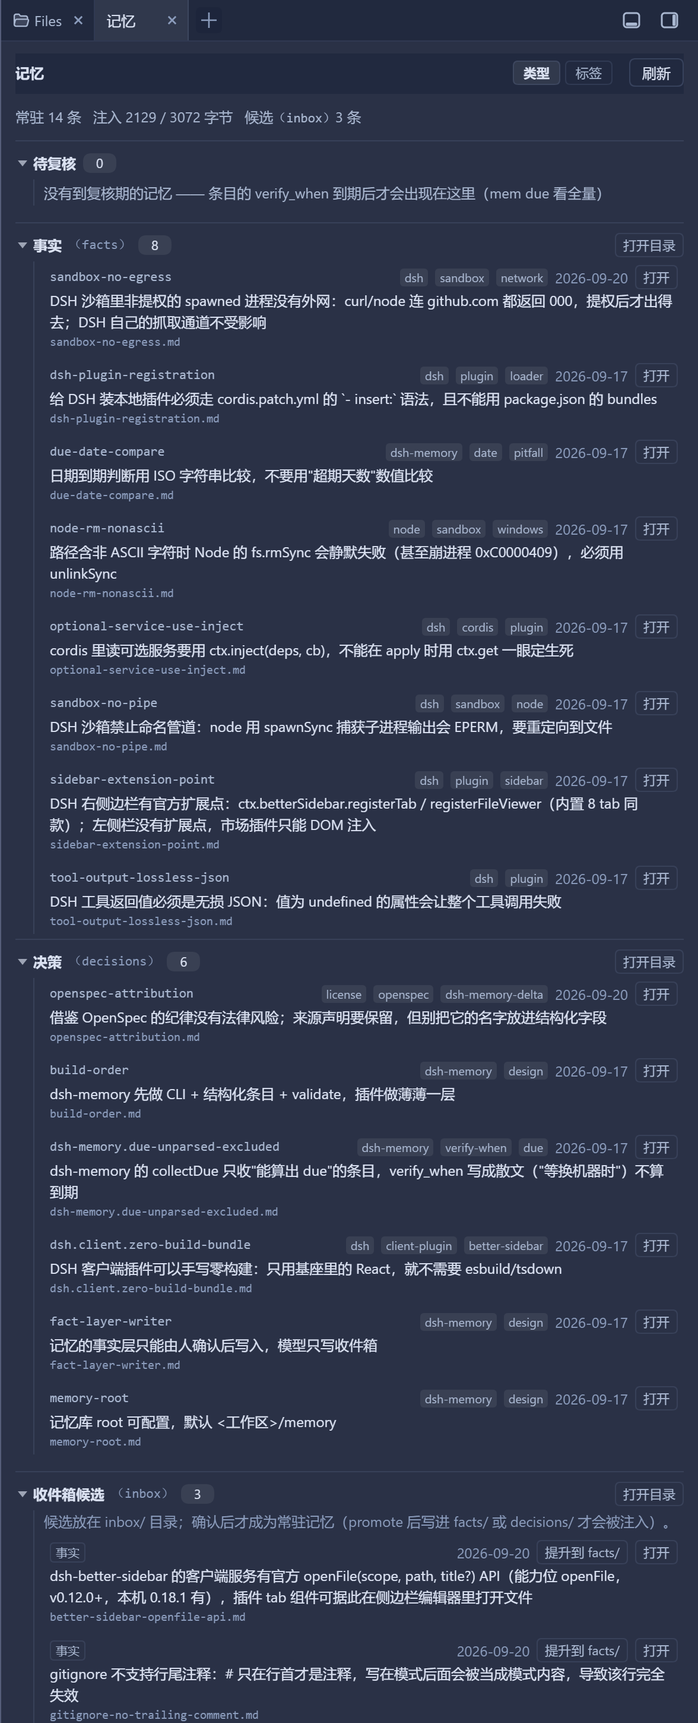
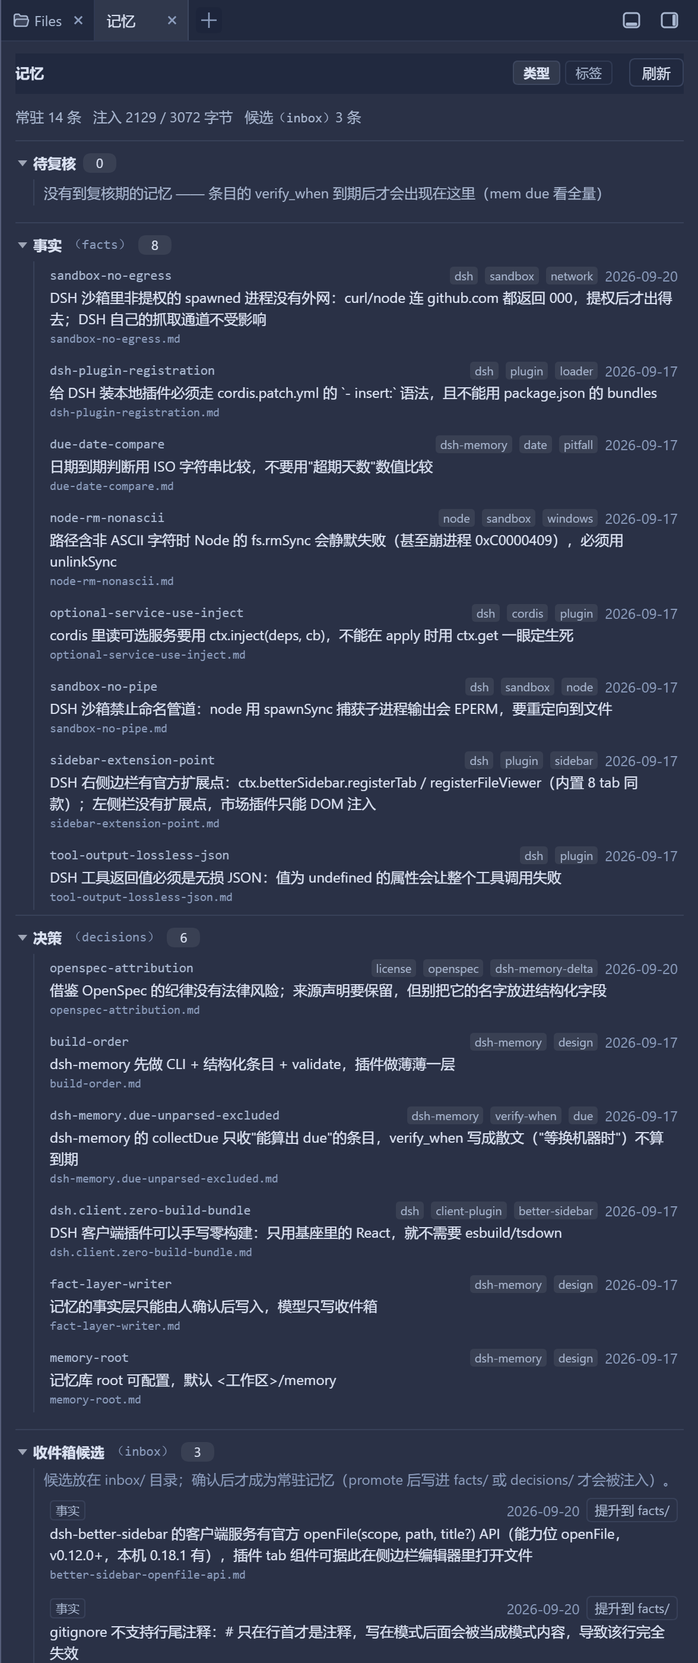
面板精简：删掉「打开目录」按钮与条目行「打开」小标签（连宿主路由一起删）
用户反馈："打开目录和打开标签不要了吧，有三角箭头和点击打开具体详情可以了"。

- client：分组头的「打开目录」按钮、条目行的「打开」小标签都去掉；
  只保留必须写库/必须由人判断的动作（收件箱「提升到 facts/ decisions/」、条目「整理文件名」）
- 宿主：**整条 reveal 路由拆掉**（MEMORY_REVEAL_PATH / REVEAL_WHERE / resolveRevealDir /
  openFolderInOs / createRevealRoute / registerRevealRoute + spawn 导入 + allowOpenFolder 配置）。
  理由：它是唯一会启动外部进程（explorer.exe）的路由，按钮没了就没人调用 ——
  留着"以备将来"等于白留一份安全面
- 测试：plugin 178→160（删掉 reveal 用例，改为断言"没有 reveal 路由"）、client 97→95
  （改为断言"没有打开目录按钮 / 不再请求 /reveal"）；全套 642 断言绿
- 文档：README 中英、design.md 第③节改成"做过又删掉，以及为什么"（少即是多的一次实践）
- 截图重拍（新面板，无多余按钮）

diff --git a/client/client.js b/client/client.js
@@ -36,8 +36,6 @@ window.__ModuleLoader__.load({
     require('react-dom');
 
     const STATE_URL = '/dsh-memory-delta/state';
-    // 动作路由：让宿主用系统文件管理器打开记忆库里的某个目录（白名单 + 回环校验在宿主侧）。
-    const REVEAL_URL = '/dsh-memory-delta/reveal';
     // 写记忆库的动作（收件箱提升 / 安全改名）—— 宿主侧复用 CLI 的 promoteEntry / renameEntry。
     const ACTION_URL = '/dsh-memory-delta/action';
     const PLUGIN_ID = 'dsh-memory-delta';
@@ -163,7 +161,7 @@ window.__ModuleLoader__.load({
   gap: 4px;
 }
 
-/* 小按钮：打开目录 / 打开文件 */
+/* 小按钮：提升 / 整理文件名（只保留"要写库/要判断"的动作，纯跳转类的按钮都去掉了） */
 .dsh-memory-delta-mini {
   flex: none;
   padding: 1px 6px;
@@ -345,31 +343,6 @@ window.__ModuleLoader__.load({
       return '今天到期';
     }
 
-    /**
-     * 让宿主打开一个目录（系统文件管理器）。
-     *
-     * 失败时**把宿主的原因原样抛出来** —— 「点了没反应」是最难查的用户体验，
-     * 面板会把这句话显示在状态行下面。
-     */
-    function requestReveal(where, workspace) {
-      return fetch(REVEAL_URL, {
-        method: 'POST',
-        headers: { 'content-type': 'application/json' },
-        body: JSON.stringify(workspace ? { where, workspace } : { where }),
-      }).then(async (res) => {
-        let data = null;
-        try {
-          data = await res.json();
-        } catch {
-          data = null;
-        }
-        if (!res.ok || !data || data.ok === false) {
-          throw new Error((data && data.error) || `HTTP ${res.status}`);
-        }
-        return data;
-      });
-    }
-
     const row = (key, children) => h('div', { className: 'dsh-memory-delta-row', key }, children);
 
     /** 只取文件名（`D:\...\facts\sandbox-no-egress.md` → `sandbox-no-egress.md`）。 */
@@ -385,12 +358,11 @@ window.__ModuleLoader__.load({
      * 折叠状态由父组件的 `collapsed` 管（不受控的 `<details>` 在 React 里
      * 会被 `open` 属性来回覆盖，刷新后弹回全展开）。
      *
-     * @param {object} spec `{ key, title, slug, count, hint, open, onToggle, onReveal }`
+     * @param {object} spec `{ key, title, slug, count, hint, open, onToggle, className }`
      *   `slug` 是磁盘上的文件夹名（facts / decisions / inbox）；没有对应目录的分组传 null。
-     *   `onReveal` 有值时分组头右侧多一个「打开目录」按钮。
      */
     function section(spec, children) {
-      const { key, title, slug, count, hint, open, onToggle, onReveal, className } = spec;
+      const { key, title, slug, count, hint, open, onToggle, className } = spec;
       return h(
         'div',
         { className: className ? `dsh-memory-delta-section ${className}` : 'dsh-memory-delta-section', key },
@@ -412,18 +384,6 @@ window.__ModuleLoader__.load({
             hint ? h('span', { className: 'dsh-memory-delta-dim dsh-memory-delta-section-hint' }, hint) : null,
             h('span', { className: 'dsh-memory-delta-count' }, String(count)),
           ),
-          onReveal
-            ? h(
-                'button',
-                {
-                  type: 'button',
-                  className: 'dsh-memory-delta-mini',
-                  onClick: onReveal,
-                  title: slug ? `在系统文件管理器里打开 ${slug} 目录` : '在系统文件管理器里打开该目录',
-                },
-                '打开目录',
-              )
-            : null,
         ),
         open ? h('div', { className: 'dsh-memory-delta-body' }, children) : null,
       );
@@ -470,7 +430,7 @@ window.__ModuleLoader__.load({
             tags.slice(0, 3).map((t) => h('span', { className: 'dsh-memory-delta-tag', key: t }, String(t))),
             e.date ? h('span', { className: 'dsh-memory-delta-dim' }, String(e.date)) : null,
             actions,
-            canOpen ? h('span', { className: 'dsh-memory-delta-mini' }, '打开') : null,
+            // 不再给「打开」小标签：整行本来就可点（hover 有底色 + title 提示），标签只是噪音
           ),
         ),
         h('div', { className: 'dsh-memory-delta-line' }, e.line),
@@ -561,14 +521,6 @@ window.__ModuleLoader__.load({
         } catch (err) {
           setActionError(`打开失败：${err && err.message ? err.message : String(err)}`);
         }
-      };
-
-      /** 点「打开目录」→ 宿主用系统文件管理器打开（白名单目录 + 回环校验在宿主那侧）。 */
-      const revealFolder = (where) => {
-        const ws = state && typeof state.workspace === 'string' && state.workspace ? state.workspace : workspace;
-        requestReveal(where, ws)
-          .then(() => setActionError(null))
-          .catch((err) => setActionError(`打开目录失败：${err && err.message ? err.message : String(err)}`));
       };
 
       const actionWorkspace = () =>
@@ -846,7 +798,6 @@ window.__ModuleLoader__.load({
                 count: list.length,
                 open: isOpen(`type:${key}`),
                 onToggle: () => toggleSection(`type:${key}`),
-                onReveal: slug ? () => revealFolder(slug) : null,
               },
               byDateDesc(list).map((e) => renderItem(e)),
             )
@@ -912,7 +863,6 @@ window.__ModuleLoader__.load({
           count: typeof counts.inbox === 'number' ? counts.inbox : inbox.length,
           open: isOpen('inbox'),
           onToggle: () => toggleSection('inbox'),
-          onReveal: () => revealFolder('inbox'),
         },
         [
           h(

diff --git a/README.md b/README.md
@@ -12,7 +12,7 @@ zero-dependency standalone CLI. It borrows the *spec / change / archive* discipl
 > please file issues and pull requests on GitHub.
 
 > Status: **M1–M4 done**; M3/M4 (differential injection, both tools, the distillation nudge) were
-> verified inside a real DSH session, and the M5 improvements below are covered by 662 assertions
+> verified inside a real DSH session, and the M5 improvements below are covered by 642 assertions
 > plus a real-machine preflight. See [Verification](#verification).
 
 ## Why
@@ -106,7 +106,6 @@ Seven rules:
            dueWithin: 0          # remind this many days before verify_when (0 = only when due)
            panel: true           # the memory tab's state/action routes
            allowWrite: true      # let panel buttons write the store (promote / rename)
-           allowOpenFolder: true # let the panel hand facts/ decisions/ … to the OS file manager
    ```
 
 3. Save. The patch layer is watched (`watchUserPatches`) — it **hot-reloads, no restart needed**.
@@ -124,8 +123,8 @@ Seven rules:
 | `memory_write` | Record a candidate into the inbox — **the model cannot touch the standing layer** |
 | Distillation nudge | Once a session has run a few steps and memory is already current, it reminds the model to record conclusions with `memory_write`; one nudge per session, and the nudge message carries **no state**, so it cannot corrupt the diff baseline |
 | Due-for-review reminder | `verify_when` is no longer a dead field: when an entry reaches its review date, the session is told once — "this conclusion may be stale, re-check it" — with the exact command to supersede or expire it. Prose values (`等换机器时`) never trigger it, so the reminder can always be resolved; it fires only on a step that injects nothing else, and it carries **no state** either |
-| Sidebar memory tab | With [dsh-better-sidebar](https://github.com/omdsh-dev/DSH-better-sidebar) installed, a **记忆** tab lists collapsible groups (a drawn caret, so it is obvious they open), the standing entries, the due-for-review items and the inbox candidates, plus the current injection size. **Clicking an entry opens its `.md`** through better-sidebar's official `openFile` (preview/edit in the sidebar editor); **"打开目录" next to a group header hands `facts/` / `decisions/` / `inbox/` to the OS file manager**. Groups are viewable by **type** (facts/decisions) or by **tag** (each entry's first tag). The client half is a **hand-written, zero-build browser bundle** (a `window.__ModuleLoader__.load({id, factory})` wrapper, no bundler); its data comes from a read-only `POST /dsh-memory-delta/state` route owned by this plugin — loopback-only, JSON in / JSON out, reading nothing but the memory store. The one route that *acts* is `POST /dsh-memory-delta/reveal`: it accepts only whitelisted directory names (`root` / `facts` / `decisions` / `inbox` / `archive`) and hands the directory to the OS file manager; turn it off with `allowOpenFolder: false` |
-| Why editing/deleting memory is *not* built into the panel | The sidebar already ships an editor (opening an entry is enough) and a file tree with confirmed rename/delete. Re-implementing full CRUD in the panel would be duplication plus a permanent maintenance tax, so the panel offers **entry points** plus **the two actions that genuinely need human judgement**: open file, open folder, **one-click promote** of an inbox candidate (the human-confirmation step finally has a UI) and **tidy the file name** (`mem rename`: id + file name + references together). ⚠ Do **not** rename memory entries through the file tree — the `id` lives in the frontmatter and must match the file name, or `mem validate` reports `id 与文件名不一致`; that is exactly why renaming is a dedicated safe operation instead of free-form editing |
+| Sidebar memory tab | With [dsh-better-sidebar](https://github.com/omdsh-dev/DSH-better-sidebar) installed, a **记忆** tab lists collapsible groups (a drawn caret, so it is obvious they open), the standing entries, the due-for-review items and the inbox candidates, plus the current injection size. **Clicking an entry opens its `.md`** through better-sidebar's official `openFile` (preview/edit in the sidebar editor). Groups are viewable by **type** (facts/decisions) or by **tag** (each entry's first tag). The client half is a **hand-written, zero-build browser bundle** (a `window.__ModuleLoader__.load({id, factory})` wrapper, no bundler); its data comes from a read-only `POST /dsh-memory-delta/state` route owned by this plugin — loopback-only, JSON in / JSON out, reading nothing but the memory store. The one route that *writes* is `POST /dsh-memory-delta/action` (inbox promote / safe rename, below); turn it off with `allowWrite: false` |
+| Why editing/deleting memory is *not* built into the panel | The sidebar already ships an editor (opening an entry is enough) and a file tree with confirmed rename/delete. Re-implementing full CRUD in the panel would be duplication plus a permanent maintenance tax, so the panel offers **entry points** plus **the two actions that genuinely need human judgement**: open file, **one-click promote** of an inbox candidate (the human-confirmation step finally has a UI) and **tidy the file name** (`mem rename`: id + file name + references together). **Pure "jump to the folder" buttons are deliberately not built** — a caret to expand plus clicking an entry for detail is enough, and an extra button only adds noise plus a route that launches an external process. ⚠ Do **not** rename memory entries through the file tree — the `id` lives in the frontmatter and must match the file name, or `mem validate` reports `id 与文件名不一致`; that is exactly why renaming is a dedicated safe operation instead of free-form editing |
 
 The plugin never spawns the CLI: the DSH sandbox forbids named pipes (capturing a child's output fails
 with EPERM), and there is no need — it imports the same store module directly (`bin/mem.mjs` only runs
@@ -138,8 +137,8 @@ plugin unchanged and simply skips the panel route.
 <sub>The **记忆** tab, opened from the sidebar's `+` menu: collapsible groups (the monospace text after a
 title is the directory on disk), standing entries with their keys/tags/dates/file names, the
 due-for-review section, the inbox candidates, and how many bytes the current store costs per session.
-**Clicking an entry opens it in the editor, "打开目录" hands the folder to the OS file manager** — the
-panel itself never writes to the store.</sub>
+**Clicking an entry opens it in the editor** — the panel itself never writes to the store; the only
+writes are the two inbox buttons (promote / tidy file name).</sub>
 
 ## CLI usage
 
@@ -195,7 +194,7 @@ Checked item by item inside a real DSH session:
 ## Development
 
 ```bash
-npm test        # 662 assertions, zero dependencies
+npm test        # 642 assertions, zero dependencies
 ```
 
 | Suite | Assertions | Covers |
@@ -205,8 +204,8 @@ npm test        # 662 assertions, zero dependencies
 | `test/search-tests.mjs` | 51 | tokenizing / scoring / snippet selection (pure logic) |
 | `test/due-tests.mjs` | 93 | `verify_when` parsing (dates, relative phrases, prose) and due collection (pure logic) |
 | `test/hook-tests.mjs` | 63 | plugin wiring (fake agent / decision): diff injection, nudge, due reminder |
-| `test/plugin-tests.mjs` | 178 | plugin integration (stubbed DSH modules, real `apply()` + both tools + all three panel routes + promote/rename actually writing the store + whitelist/origin checks) |
-| `test/client-tests.mjs` | 97 | the sidebar panel bundle (fake React + fake `fetch`: grouping/collapse, entry click → `openFile`, folder click → `reveal`, promote/tidy, failure states) |
+| `test/plugin-tests.mjs` | 160 | plugin integration (stubbed DSH modules, real `apply()` + both tools + both panel routes + promote/rename actually writing the store + whitelist/origin checks) |
+| `test/client-tests.mjs` | 95 | the sidebar panel bundle (fake React + fake `fetch`: grouping/collapse, entry click → `openFile`, promote/tidy, failure states) |
 
 `test/plugin-tests.mjs` replaces the four `@deepseek-ai/*` packages with the stubs in `test/stubs/`
 (via `test/stub-loader.mjs`) and **actually `apply()`s the plugin**, so its behaviour is verifiable

diff --git a/README.zh.md b/README.zh.md
@@ -92,9 +92,8 @@ AI 编码助手有两个反复出现的毛病：
            maxBytes: 3072       # baseline 注入的字节预算
            enabled: true
            dueWithin: 0         # verify_when 提前几天提醒复核（0 = 只在已到期时）
-           panel: true          # 侧边栏「记忆」页签的两条数据/动作路由
+           panel: true          # 侧边栏「记忆」页签的数据/动作路由
            allowWrite: true     # 允许面板按钮写记忆库（收件箱提升 / 整理文件名）
-           allowOpenFolder: true # 允许面板用系统文件管理器打开 facts/ decisions/ …
    ```
 
 3. 保存即可 —— patch 层有 `watchUserPatches`，**会热加载，不需要重启**。
@@ -112,8 +111,8 @@ AI 编码助手有两个反复出现的毛病：
 | `memory_write` | 把候选条目写进 inbox —— **模型不允许直接改事实层** |
 | 蒸馏提醒 | 会话跑过若干轮而记忆已是最新时，提醒模型把本次结论落到 inbox；每会话只提醒一次，且提醒消息**不带状态**，不污染差分基线 |
 | 到期复核提醒 | `verify_when` 不再是死字段：条目到了当初约定的复核期，会话里会**提醒一次**"这条结论可能过时了，请复核"，并给出该用哪条命令取代/标过期。写成**人话**的值（`等换机器时`）永远不会触发它（否则每个会话都弹一次、怎么改都消不掉）；只在"本轮本来不注入任何记忆"时才提醒，同样**不带状态** |
-| 侧边栏「记忆」页签 | 装了 [dsh-better-sidebar](https://github.com/omdsh-dev/DSH-better-sidebar) 后，侧边栏多一个**记忆**页：可折叠分组（自绘箭头，一眼看出能展开）、常驻条目、到期待复核项、收件箱候选、当前注入体积。**点某条记忆 = 打开它那个 `.md`**（走 better-sidebar 的官方 `openFile`，在侧边栏编辑器里预览/编辑）；**点分组头右边的「打开目录」= 用系统文件管理器打开 `facts/`、`decisions/`、`inbox/`**。分组可按**类型**（事实/决策）或**标签**看（取每条第一个标签）。客户端半边是**手写的零构建浏览器 bundle**（`window.__ModuleLoader__.load({id, factory})` 包装，不引入任何打包器）；数据来自本插件自己的只读路由 `POST /dsh-memory-delta/state` —— 仅回环、JSON 进 JSON 出、只读记忆库，不碰别的文件。唯一会**动作**的路由是 `POST /dsh-memory-delta/reveal`：只接受白名单目录名（`root` / `facts` / `decisions` / `inbox` / `archive`），由宿主用系统文件管理器打开，可用配置 `allowOpenFolder: false` 关掉 |
-| 为什么不把"编辑/删除记忆"做进面板 | 侧边栏**本来就有**编辑器（点条目即打开）和文件树（重命名/删除带确认）。在面板里再造一套完整增删改 = 重复实现 + 长期维护负担，所以面板只做**入口**加**两个真正需要判断的动作**：打开文件、打开目录、把收件箱候选**一键提升**（`promote`，人确认这一步终于有了界面）、以及**整理文件名**（`mem rename`：id + 文件名 + 引用一起改）。⚠ **不要**用文件树直接给记忆条目改名 —— `id` 写在 frontmatter 里且必须与文件名一致，`mem validate` 会报 `id 与文件名不一致`；这正是不做自由改名、只做"安全改名"的原因 |
+| 侧边栏「记忆」页签 | 装了 [dsh-better-sidebar](https://github.com/omdsh-dev/DSH-better-sidebar) 后，侧边栏多一个**记忆**页：可折叠分组（自绘箭头，一眼看出能展开）、常驻条目、到期待复核项、收件箱候选、当前注入体积。**点某条记忆 = 打开它那个 `.md`**（走 better-sidebar 的官方 `openFile`，在侧边栏编辑器里预览/编辑）。分组可按**类型**（事实/决策）或**标签**看（取每条第一个标签）。客户端半边是**手写的零构建浏览器 bundle**（`window.__ModuleLoader__.load({id, factory})` 包装，不引入任何打包器）；数据来自本插件自己的只读路由 `POST /dsh-memory-delta/state` —— 仅回环、JSON 进 JSON 出、只读记忆库，不碰别的文件。唯一会**写**的路由是 `POST /dsh-memory-delta/action`（收件箱提升 / 安全改名，见下），可用 `allowWrite: false` 关掉 |
+| 为什么不把"编辑/删除记忆"做进面板 | 侧边栏**本来就有**编辑器（点条目即打开）和文件树（重命名/删除带确认）。在面板里再造一套完整增删改 = 重复实现 + 长期维护负担，所以面板只做**入口**加**两个真正需要判断的动作**：打开文件、把收件箱候选**一键提升**（`promote`，人确认这一步终于有了界面）、以及**整理文件名**（`mem rename`：id + 文件名 + 引用一起改）。**"跳到目录"这类纯跳转按钮不做** —— 折叠箭头看内容 + 点条目打开详情已经够，多一个按钮只多一份噪音和一条会启动外部进程的路由。⚠ **不要**用文件树直接给记忆条目改名 —— `id` 写在 frontmatter 里且必须与文件名一致，`mem validate` 会报 `id 与文件名不一致`；这正是不做自由改名、只做"安全改名"的原因 |
 
 为什么插件**不去 spawn CLI**：DSH 沙箱禁止命名管道，捕获子进程输出会 EPERM；而且没必要 ——
 插件直接 `import` 同一份 store 逻辑（`bin/mem.mjs` 只在被直接执行时才跑 CLI）。
@@ -124,7 +123,7 @@ AI 编码助手有两个反复出现的毛病：
 
 <sub>从侧边栏的 `+` 菜单打开的**「记忆」页签**：可折叠分组（标题后的等宽字是磁盘上的目录名）、
 常驻条目与其语义键/标签/日期/文件名、待复核区、收件箱候选，以及当前记忆库每轮会话要花多少字节。
-**点条目在编辑器里打开、点「打开目录」交给系统文件管理器**，面板本身从不写记忆库。</sub>
+**点条目就在编辑器里打开它**（面板本身从不写记忆库；写操作只有收件箱的提升与整理文件名两个按钮）。</sub>
 
 ## CLI 用法
 
@@ -180,7 +179,7 @@ mem journal add "流水一行"
 ## 开发
 
 ```bash
-npm test        # 662 个断言，零依赖
+npm test        # 642 个断言，零依赖
 ```
 
 | 套件 | 断言 | 覆盖 |
@@ -190,8 +189,8 @@ npm test        # 662 个断言，零依赖
 | `test/search-tests.mjs` | 51 | 分词 / 打分 / 片段选择（纯逻辑） |
 | `test/due-tests.mjs` | 93 | `verify_when` 解析（日期、相对说法、人话）与到期收集（纯逻辑） |
 | `test/hook-tests.mjs` | 63 | 插件接线（假 agent / decision）：差分注入、蒸馏提醒、到期提醒 |
-| `test/plugin-tests.mjs` | 178 | 插件集成（桩 DSH 模块，真 apply + 两个工具 + 三条面板路由 + promote/rename 真的写库 + 白名单/来源校验） |
-| `test/client-tests.mjs` | 97 | 侧边栏面板 bundle（假 React + 假 `fetch`：分组/折叠、点条目调 openFile、点目录调 reveal、提升/整理文件名、失败态） |
+| `test/plugin-tests.mjs` | 160 | 插件集成（桩 DSH 模块，真 apply + 两个工具 + 两条面板路由 + promote/rename 真的写库 + 白名单/来源校验） |
+| `test/client-tests.mjs` | 95 | 侧边栏面板 bundle（假 React + 假 `fetch`：分组/折叠、点条目调 openFile、提升/整理文件名、失败态） |
 
 `test/plugin-tests.mjs` 用 `test/stubs/` 下的桩模块替换 4 个 `@deepseek-ai/*` 包，
 通过 `test/stub-loader.mjs` **真正 `apply()` 这个插件并驱动它**，所以即使没有 DSH 也能验证插件行为。

diff --git a/docs/design.md b/docs/design.md
@@ -233,7 +233,7 @@ verify_when: Windows 大版本更新后重新评估
   - ② **检索变准**：`src/search.mjs`（词/中文 bigram 分词 + 加权打分 + 命中片段），
     `mem recall` 与插件 `memory_search` 共用同一套实现。
   - ③ **`verify_when` 落地成会话内提醒**：把死字段变成"到点了主动提醒你复核"。
-  - 测试 **662 个断言全绿**（CLI 137 + planner 43 + search 51 + due 93 + hook 63 + plugin 178 + client 97），
+  - 测试 **642 个断言全绿**（CLI 137 + planner 43 + search 51 + due 93 + hook 63 + plugin 160 + client 95），
     真机预检 15/15。
   - **明确不做**（用户判定过度设计）：仪表盘/健康度看板、使用计数器、相关性推送的复杂机制。
 
@@ -316,13 +316,24 @@ verify_when: Windows 大版本更新后重新评估
 **别用文件树直接给记忆条目改名**，那会造出 `id 与文件名不一致`。安全改名得走
 `mem rename`（同时改 frontmatter、文件名与引用），面板只**提示**、绝不代替。
 
-**③ "打开目录"交给系统文件管理器，而不是 better-sidebar 内部的 `revealPaths`。**
-文件树里的"在文件夹中显示"走的是内部实现（`intercept.tsx` 的 `revealInExplorer` →
-`store.reduce(revealPaths)`），**没有进公开 API**；照抄它等于依赖未公开的内部状态，
-0.18 / 0.19 两代实现不同，一升级就碎。所以宿主机自己开一条
-`POST /dsh-memory-delta/reveal`：**白名单目录名**（`root`/`facts`/`decisions`/`inbox`/`archive`，
-绝不接受任意路径）+ 只认回环来源 + `allowOpenFolder:false` 可关；
-子进程用 `stdio:'ignore'`（DSH 沙箱禁命名管道，捕获输出会 EPERM，这里也不需要输出）。
+**③ "跳到目录"这类按钮**曾经做过，后来**按用户反馈删掉了**。
+当时的实现：宿主机开一条 `POST /dsh-memory-delta/reveal`（**白名单目录名**
+`root`/`facts`/`decisions`/`inbox`/`archive` + 只认回环来源 + `allowOpenFolder:false` 可关），
+用系统文件管理器打开该目录 —— 之所以不走 better-sidebar 内部的 `revealPaths`
+（`intercept.tsx` 的 `revealInExplorer` → `store.reduce(revealPaths)`），是因为它**没进公开 API**，
+照抄它等于依赖未公开的内部状态，0.18 / 0.19 两代实现不同，一升级就碎。
+
+删掉的理由值得记下来（这是"少即是多"的一次实践）：
+
+- 用户的原话是"有三角箭头和点击打开具体详情可以了" —— **折叠看内容 + 点条目打开详情**已经覆盖了
+  全部真实需求，"跳到目录"是给一个**不存在的需求**加的按钮；
+- 它同时是**唯一会启动外部进程**的路由（`spawn(explorer.exe)`）—— 一条没人调用的、
+  能拉起系统程序的路由是纯粹多出来的安全面，删掉比留着"以备将来"更对；
+- 条目行右侧那个「打开」小标签同理删掉了：整行本来就可点（hover 有底色 + `title` 提示），
+  再挂一个标签只是噪音。
+
+**留下的原则**：面板里只保留**必须写库或必须由人判断**的动作（收件箱提升、整理文件名），
+纯跳转/纯提示类的按钮一律不做 —— 交互靠 hover/可点区域本身表达，而不是再加一排按钮。
 
 **④ "自动归纳"只做确定有用的那一半。** 语义聚类不做（结果不确定、用户还得纠错，
 和之前否掉的看板/计数器同类）。做的是：**按标签分组**（取每条第一个标签，没标签的归一组，
